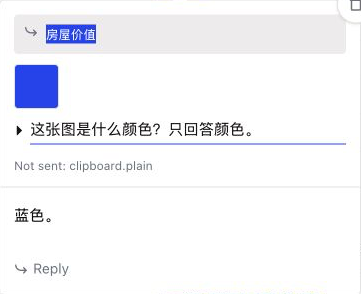
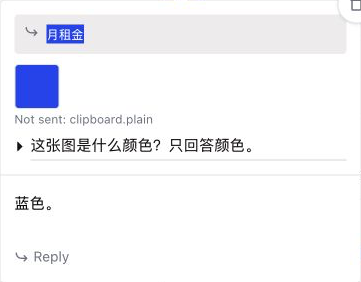
TODO evidence: notes in the attachment layer (1.2.11-dev.12, T13)

diff --git a/docs/TODO-2026H2.md b/docs/TODO-2026H2.md
@@ -60,12 +60,12 @@ Detailed plans: `collab/PLAN-next.md` (Chinese).
 | 「警告」提示框 | 同上 | <a href="evidence/formats/9-warning.png"><img src="evidence/formats/9-warning.png" width="200"></a> |
 | 两栏对比 | 选中一栏里的列表项，引用带 bullet（dev.10） | <a href="evidence/formats/9-two-columns.png"><img src="evidence/formats/9-two-columns.png" width="200"></a> |
 
-## Step 2: Attachments in Popups (ChatGPT) — built and verified live (1.2.11-dev.11), not released
+## Step 2: Attachments in Popups (ChatGPT) — built and verified live (1.2.11-dev.12), not released
 - Design (grilling 2026-10-29, `collab/PLAN-next.md` "grilling 结论"): any file; images as thumbnails, other files as an icon with the extension, in a row of squares between the quote and the question; question text required; edits start with no attachments; files ChatGPT does not take are dropped and listed in a grey note (this session only); Retry resends files still in memory, after a reload only the text; storage keeps a count only; no Popup send while the user's own files wait in ChatGPT's input box
 - 2a input takes pasted / dropped files — 2b hand-over to ChatGPT's composer (synthetic paste, upload wait, renamed and same-named files) — 2c attachments on answered popups, per version, and after a reload (conversation data + /backend-api/files/download, HTTP 200 verified)
 - Two independent ponytail reviews, all findings fixed (1.2.11-dev.1, dev.6); live tests T6–T10
 
-### Step 2 evidence (1.2.11-dev.11, live tests T7–T12)
+### Step 2 evidence (1.2.11-dev.12, live tests T7–T13)
 
 | 情况 | 现在 | 截图（点开看大图） |
 |---|---|---|
@@ -73,8 +73,8 @@ Detailed plans: `collab/PLAN-next.md` (Chinese).
 | 两张同名图 + PDF 发出去 | 回答完成后附件还在；ChatGPT 收到了三个附件（回答逐个说出了蓝、橙和 PDF 里的字） | <a href="evidence/step2/2-sent.png"><img src="evidence/step2/2-sent.png" width="220"></a> |
 | 编辑并换附件 | 编辑从空白开始；第 2 版只带新贴的橙图，回答「橙色」；版本切换时附件跟着换 | <a href="evidence/step2/3-edit-v2.png"><img src="evidence/step2/3-edit-v2.png" width="220"></a> |
 | 刷新后 | 缩略图和 PDF 方块都恢复（图片地址接口 HTTP 200；和上一行同一张图，拍时页面已刷新） | <a href="evidence/step2/4-reload.png"><img src="evidence/step2/4-reload.png" width="220"></a> |
-| 你自己的附件在 ChatGPT 输入框里 | Popup 不发送，问题下面一行「Send or remove your files in ChatGPT’s box first」，和问题下划线、分隔线等距（14 px / 14 px）；问题和附件都留着 | <a href="evidence/step2/5-blocked.png"><img src="evidence/step2/5-blocked.png" width="220"></a> |
-| ChatGPT 不收的附件（空文件） | 问题和其余附件照发（回答「蓝色」），问题下面一行「Not sent: clipboard.plain」（原因在悬停提示里），上下等距 | <a href="evidence/step2/6-not-sent.png"><img src="evidence/step2/6-not-sent.png" width="220"></a> |
+| 你自己的附件在 ChatGPT 输入框里 | Popup 不发送；附件那一层（引用框和问题之间）一行「Send or remove your files in ChatGPT’s box first」，离引用 10 px、离问题 6 px；问题和附件都留着 | <a href="evidence/step2/5-blocked.png"><img src="evidence/step2/5-blocked.png" width="220"></a> |
+| ChatGPT 不收的附件（空文件） | 问题和其余附件照发（回答「蓝色」）；附件方块下面一行「Not sent: clipboard.plain」（原因在悬停提示里），离方块 3 px、离问题 6 px，左边和方块对齐 | <a href="evidence/step2/6-not-sent.png"><img src="evidence/step2/6-not-sent.png" width="220"></a> |
 
 ## Step 3: DeepSeek Support — feasibility done; claude.ai on hold
 - 3a Refactor without changing ChatGPT behavior: pick the site by URL, one conversation-id rule, per-site storage key prefix

diff --git a/collab/HANDOFF.md b/collab/HANDOFF.md
@@ -1,6 +1,6 @@
 # HANDOFF — ChatGPT 2026-10 redesign fix (Popup 1.2.0)
 
-Last updated: 2026-10-29. **Current: Popup 1.2.11-dev.11, `docs/TODO-2026H2.md`.** Step 1 (special answer formats, R1–R12) done and verified; Step 2 (attachments in popups: `src/attachments.js`, `JR.attachToComposer` in `src/chat.js`, read-back in `src/qa-content.js`) built, reviewed twice and verified live (T6–T10), not released. Open: the release (zip). Next: Step 3 DeepSeek. Plans in `collab/PLAN-next.md`. Operator: steer with `python3 tools/codex_steer.py operator "..."`; file pastes via the operator's tab.clipboard.write + Cmd+V. All approved test messages are used up. Read this first, then `collab/PLAN.md` (approved plan, Chinese) and `docs/DEBUG.md` #44–#52.
+Last updated: 2026-10-29. **Current: Popup 1.2.11-dev.12, `docs/TODO-2026H2.md`.** Step 1 (special answer formats, R1–R12) done and verified; Step 2 (attachments in popups: `src/attachments.js`, `JR.attachToComposer` in `src/chat.js`, read-back in `src/qa-content.js`) built, reviewed twice and verified live (T6–T10), not released. Open: the release (zip). Next: Step 3 DeepSeek. Plans in `collab/PLAN-next.md`. Operator: steer with `python3 tools/codex_steer.py operator "..."`; file pastes via the operator's tab.clipboard.write + Cmd+V. All approved test messages are used up. Read this first, then `collab/PLAN.md` (approved plan, Chinese) and `docs/DEBUG.md` #44–#52.
 
 ## Status in one paragraph
 Popup broke when ChatGPT redesigned its frontend (Oct 2026). Phase 1 (DOM migration) and Phase 2 (keys-only storage + performance) are implemented and verified live as **1.2.0-dev.55**, released as **1.2.0** by a Codex "operator" session in the user's Chrome: core flow, nested popups (5 levels), reply-to-whole, cascade delete, reload restore, read-back of answers not in the DOM, asking from the middle of a long chat, queued sends, 20-question stress test (~8 KB storage). Since dev.12: the search bar and transition API were removed (user request), a ponytail simplicity pass deleted ~1,900 lines, per-mount work runs in idle slices, the × on ChatGPT's "Ask ChatGPT" button was removed (user request), and **hidden Popup Q&As no longer leave gaps**: `src/net-tap.js` filters them out of the conversation data the page receives and fixes the parent of the user's next message so ChatGPT keeps the Popup context (DEBUG #52; verified: normal send, edit, regenerate, ChatGPT recalled the hidden question; T24 regression passed). Since dev.37: a ponytail-audit of the whole repo was fixed (timeouts measured from the last answer progress, repeated-word highlights restored at the same occurrence via `nth`, multi-line questions keep their line breaks, retries queue, "Popup was updated, refresh" notice after an extension reload, ~150 dead lines removed), popups reopen on the version viewed last, dark mode uses an ice-blue accent, highlights change shade on hover / while open; verified live in dark mode + Chinese UI (T27–T28). The extension-updated notice was verified live (T29). Formulas (KaTeX) are handled exactly: questions carry TeX, quotes show the rendered formula with the exact selected characters marked (DEBUG #54, T30–T31). "This response couldn't load" on regenerated answers is a ChatGPT bug (reproduced with Popup disabled in a new chat, DEBUG #51). **Not yet done:** Chrome Web Store upload (zip: `dist/Popup-1.2.0.zip`, rebuild with the command in "Next steps"), items under "Not verified".
